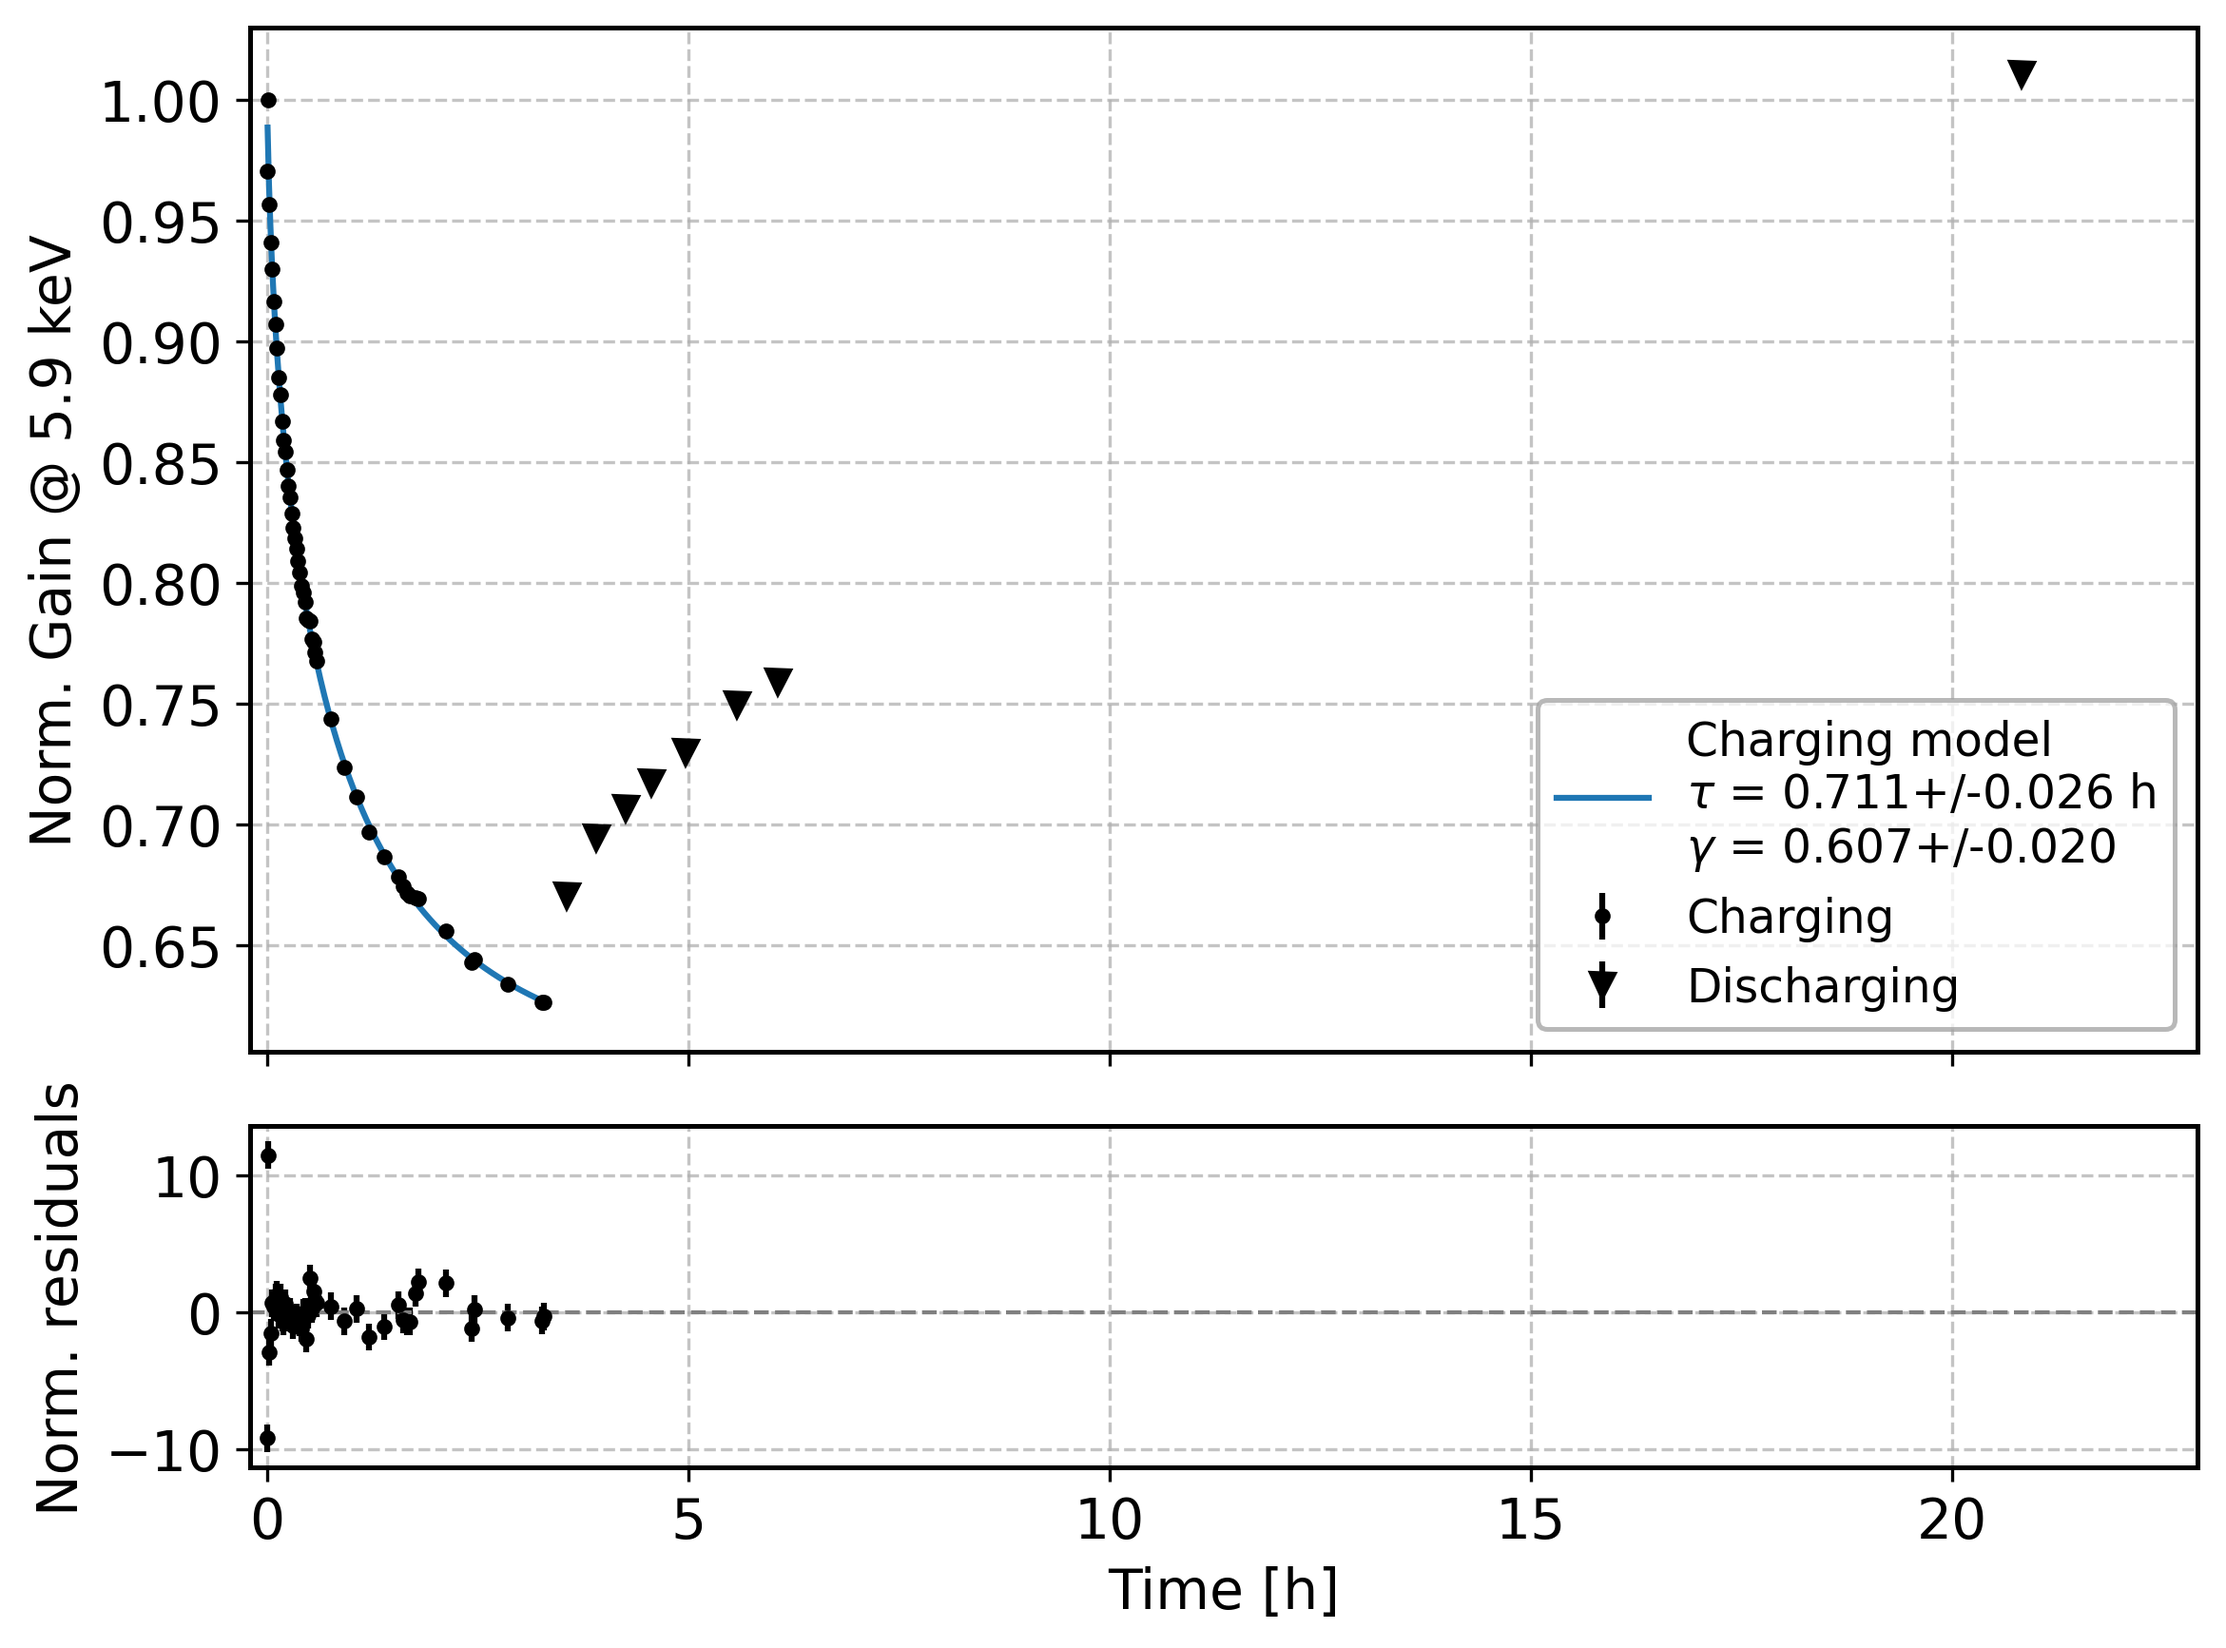
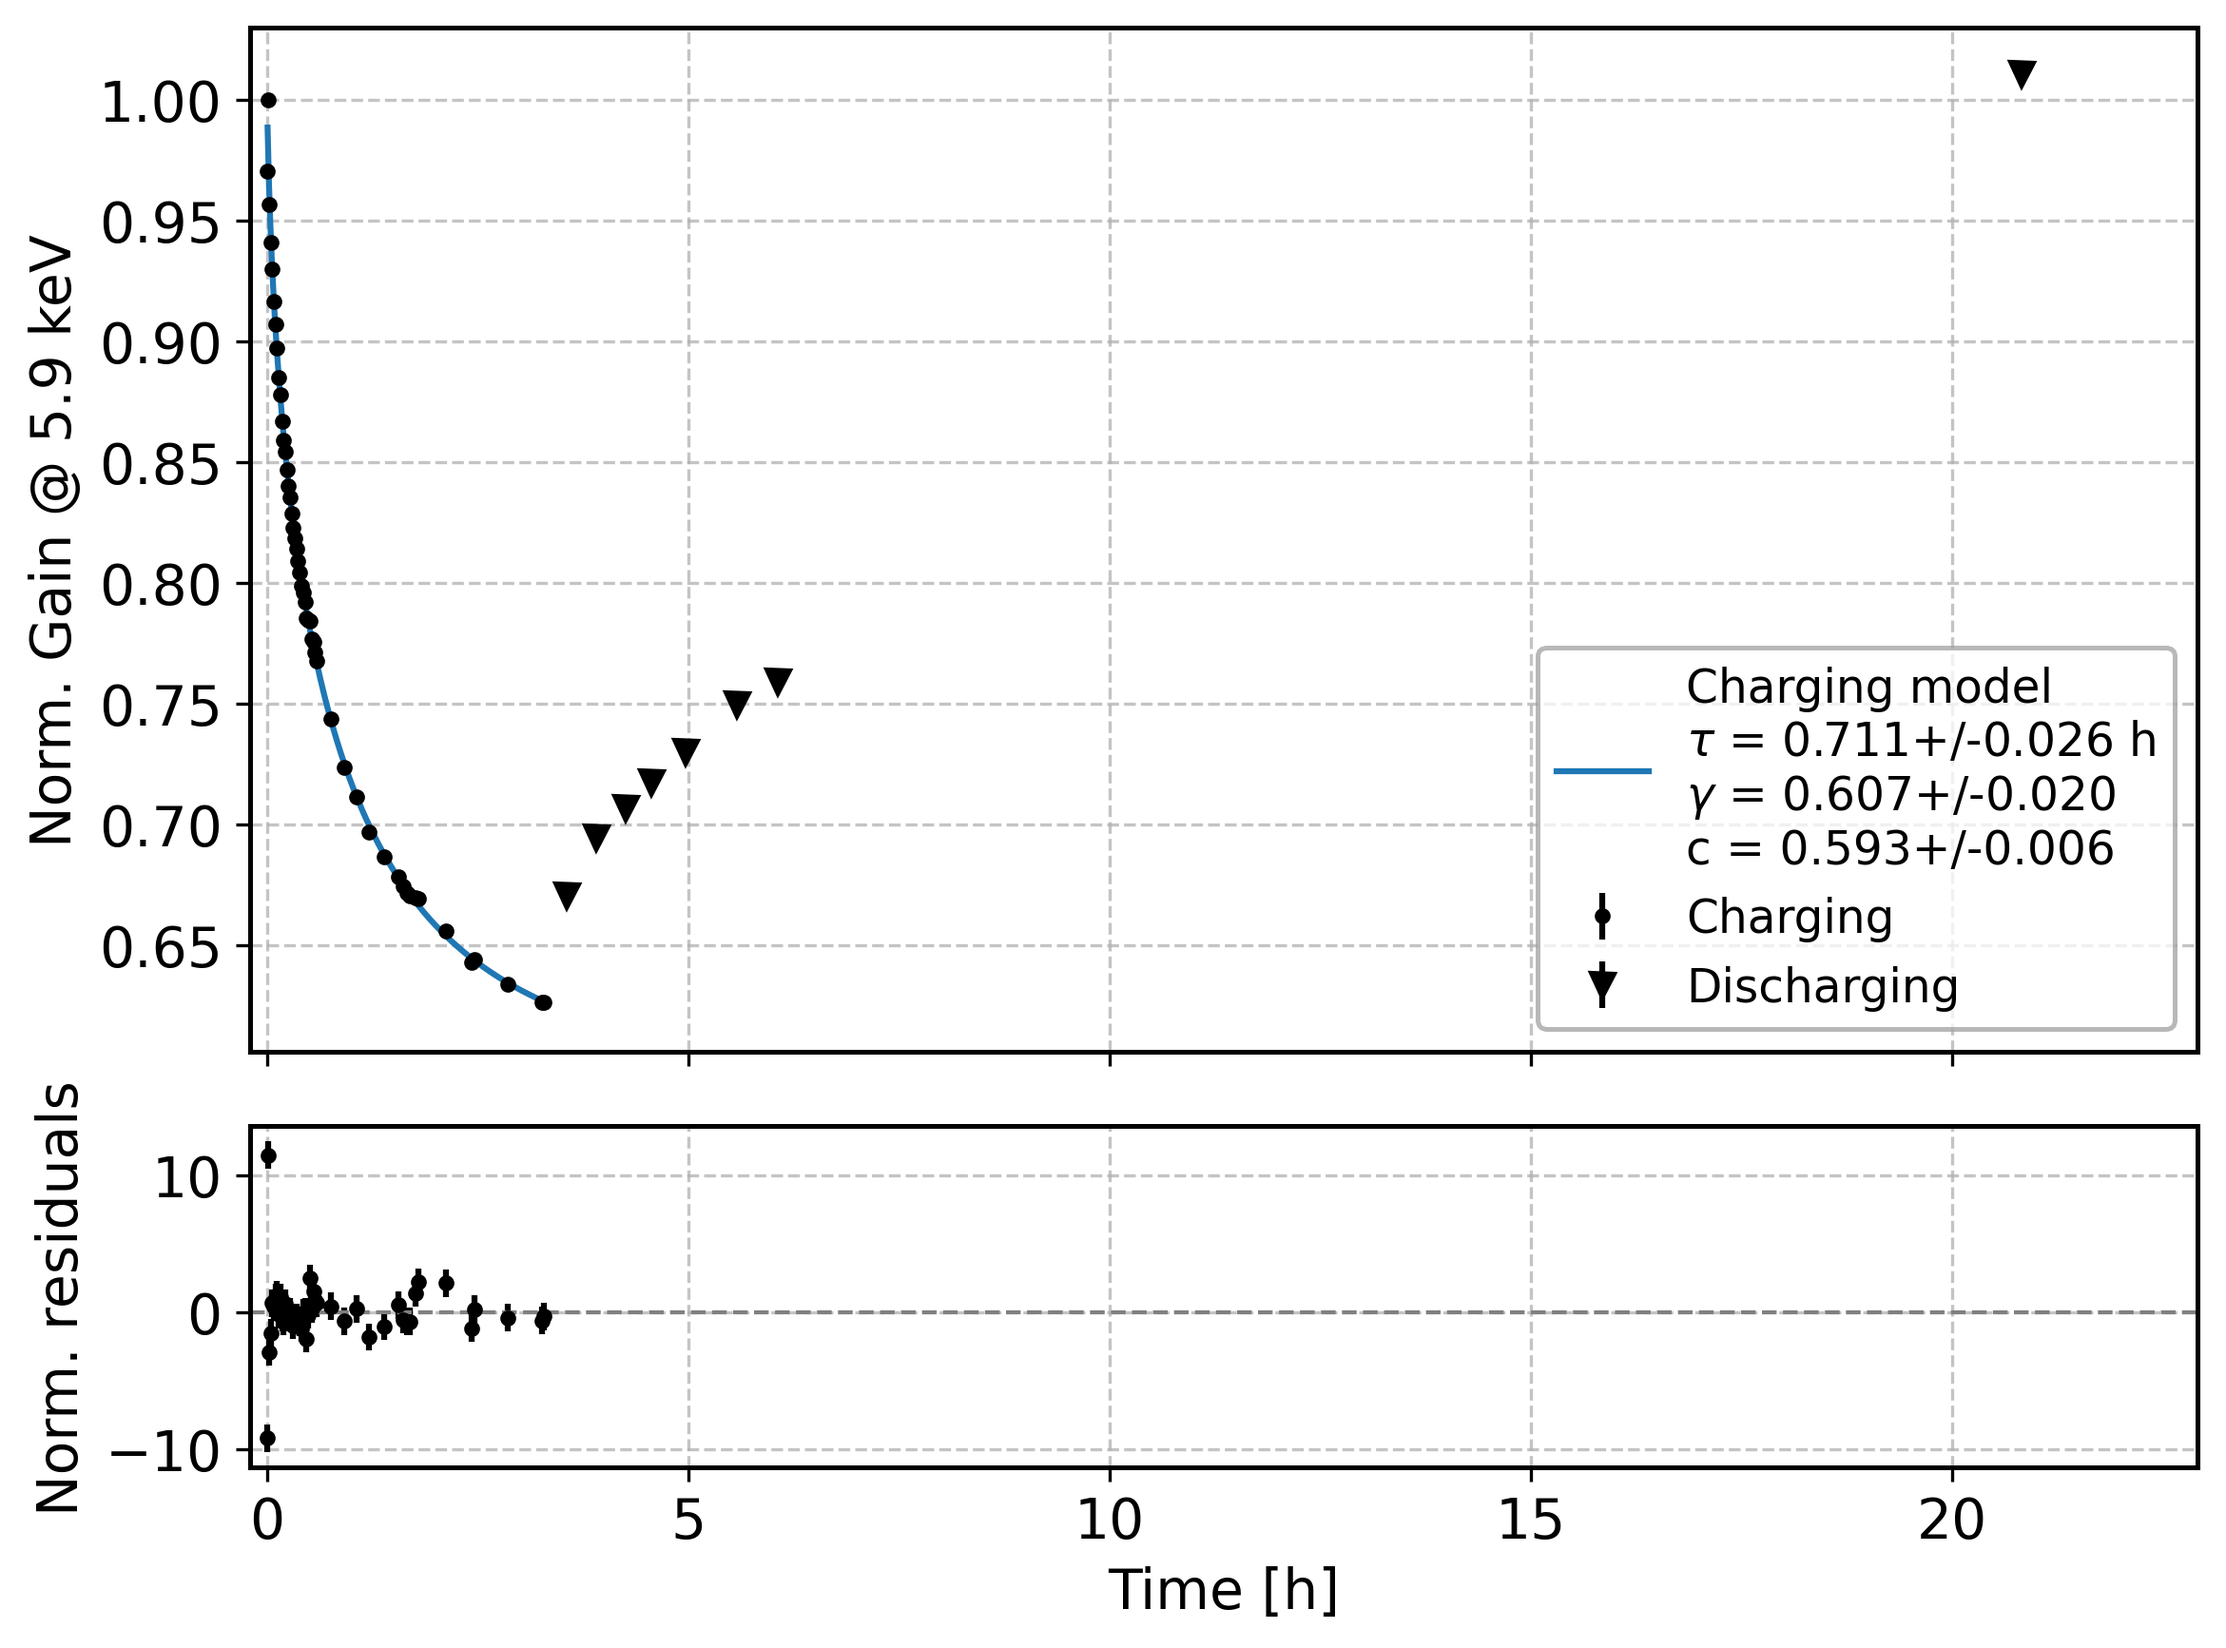
Minor.

Changed region(s): [[0.686, 0.3739, 0.9667, 0.5297], [0.686, 0.4051, 0.7172, 0.4362]]

diff --git a/scripts/chapter5/charging.py b/scripts/chapter5/charging.py
@@ -21,6 +21,8 @@ charging_errors = gain_errors[mask] / gains[mask][0]
 model = StretchedExponential() + Constant()
 model.fit(times[mask], charging, sigma=charging_errors)
 
+print(model)
+
 discharging = gains[~mask] / gains[mask][0]
 discharging_errors = gain_errors[~mask] / gains[mask][0]
 
@@ -43,7 +45,7 @@ ax_main.errorbar(times[~mask], discharging, yerr=discharging_errors, fmt='vk', l
 scale = model._components[0].scale.ufloat()
 gamma = model._components[0].stretch.ufloat()
 label = f'Charging model\n' + rf"$\tau$ = {scale} h"
-label += "\n" + r"$\gamma$ = " + f"{gamma}"
+label += "\n" + r"$\gamma$ = " + f"{gamma}" + f"\nc = {model._components[1].value.ufloat()}"
 model.plot(label=label, plot_components=False)
 ax_main.set_ylabel('Norm. Gain @ 5.9 keV')
 ax_main.legend()
